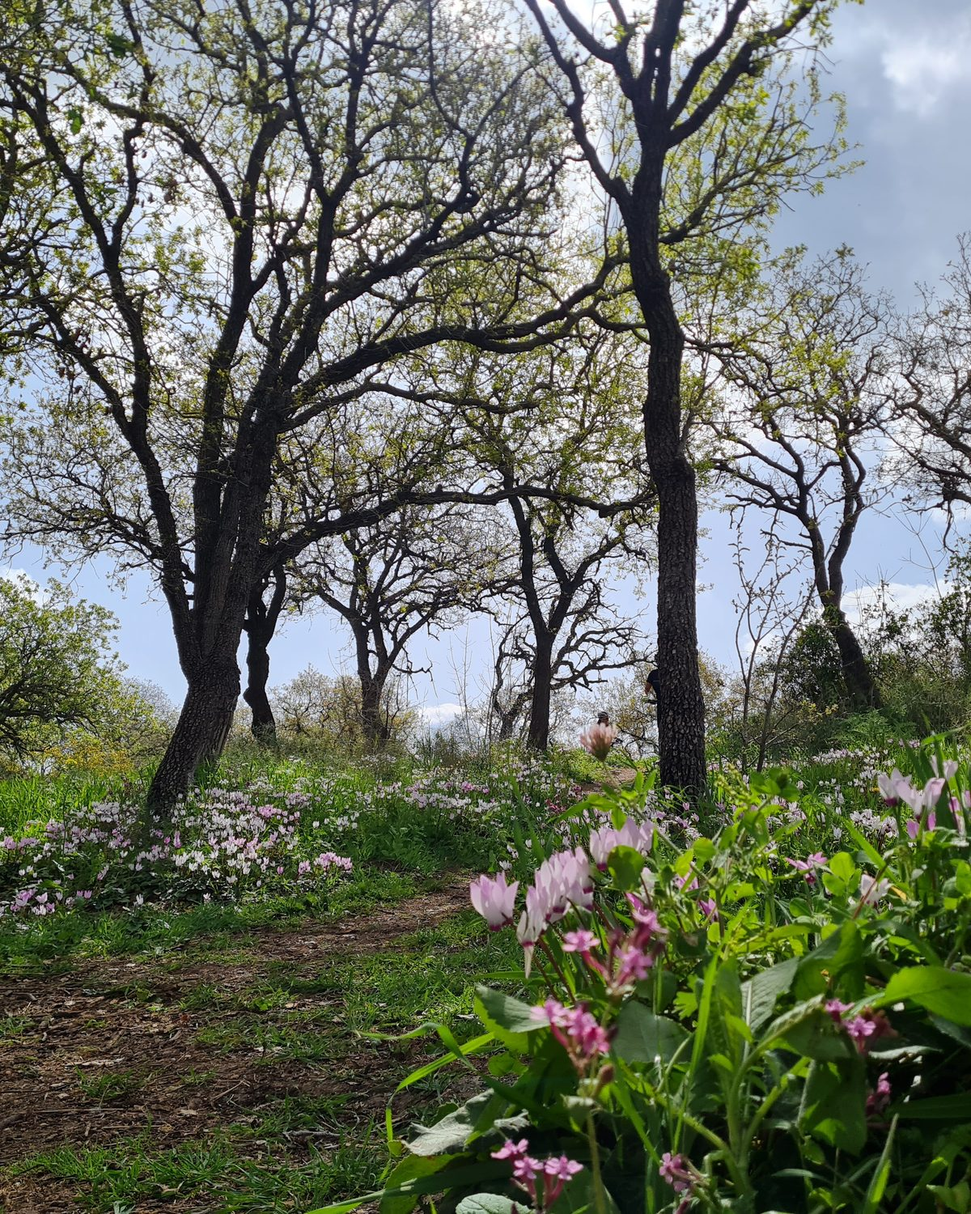
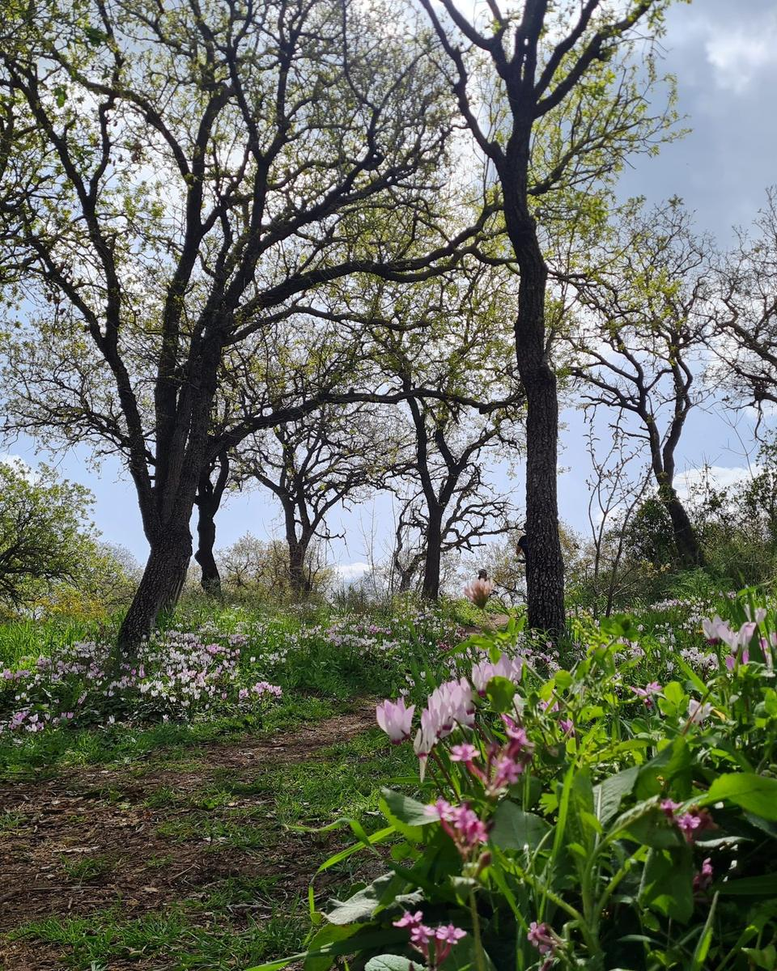
SEO improvements + Binyamina clinic (#1)
* SEO: canonical, structured data, titles, og:image:alt, lighter images

- Add canonical links to index, relocation and links pages
- Add JSON-LD (ProfessionalService, Person, WebSite; Service for relocation)
- Keyword-richer titles, og:image:alt
- Link to / instead of index.html to avoid duplicate URLs
- Compress hero (the-path.jpg) and LastBox.jpeg; fetchpriority on hero
- Update sitemap lastmod

Claude-Session: https://claude.ai/code/session_018zGTvMWcWPRyo6wD616F5h

* Mention in-person sessions at the Binyamina clinic

Claude-Session: https://claude.ai/code/session_018zGTvMWcWPRyo6wD616F5h

* Title: use 'אימון אישי (Coaching)' instead of transliteration

Claude-Session: https://claude.ai/code/session_018zGTvMWcWPRyo6wD616F5h

* Add 'קואצ'ינג' FAQ, meta description and knowsAbout

Claude-Session: https://claude.ai/code/session_018zGTvMWcWPRyo6wD616F5h

* Shorter homepage meta description (137 chars)

Claude-Session: https://claude.ai/code/session_018zGTvMWcWPRyo6wD616F5h

---------

diff --git a/index.html b/index.html
@@ -11,8 +11,9 @@
 </script>
 <meta charset="UTF-8">
 <meta name="viewport" content="width=device-width, initial-scale=1.0">
-<title>דריה אליאס | אימון אישי</title>
-<meta name="description" content="דריה אליאס – מאמנת אישית מוסמכת ILCC ומנהלת מוצר. אימון אישי בצמתי שינוי בקריירה ובחיים, לקבלת החלטות, גילוי כיוון וצעדים מעשיים קדימה. אונליין.">
+<title>דריה אליאס | אימון אישי (Coaching) בצמתי שינוי – אונליין ובבנימינה</title>
+<link rel="canonical" href="https://darya-elias.com/">
+<meta name="description" content="דריה אליאס, מאמנת אישית מוסמכת ILCC. אימון אישי (קואצ'ינג) כשמשהו בקריירה או בחיים מבקש שינוי. שיחת היכרות ללא עלות, אונליין או בבנימינה.">
 
 <!--
   ===== הערות לפני פרסום =====
@@ -31,7 +32,74 @@
 <meta property="og:image" content="https://darya-elias.com/og-home.jpg">
 <meta property="og:image:width" content="1200">
 <meta property="og:image:height" content="630">
+<meta property="og:image:alt" content="דריה אליאס – אימון אישי בצמתי שינוי">
 <meta name="twitter:card" content="summary_large_image">
+<script type="application/ld+json">
+{
+ "@context": "https://schema.org",
+ "@graph": [
+  {
+   "@type": "ProfessionalService",
+   "@id": "https://darya-elias.com/#business",
+   "name": "דריה אליאס - אימון אישי",
+   "url": "https://darya-elias.com/",
+   "image": "https://darya-elias.com/og-home.jpg",
+   "logo": "https://darya-elias.com/compass-mark.png",
+   "description": "אימון אישי (Coaching) בצמתי שינוי בקריירה ובחיים: קבלת החלטות, גילוי כיוון וצעדים מעשיים קדימה. אונליין או בקליניקה בבנימינה, עם שיחת היכרות ללא עלות.",
+   "telephone": "+972-54-280-1725",
+   "email": "darya@darya-elias.com",
+   "address": {
+    "@type": "PostalAddress",
+    "addressLocality": "בנימינה",
+    "addressCountry": "IL"
+   },
+   "areaServed": [
+    {
+     "@type": "Country",
+     "name": "ישראל"
+    },
+    {
+     "@type": "Place",
+     "name": "אונליין – כל העולם"
+    }
+   ],
+   "founder": {
+    "@id": "https://darya-elias.com/#darya"
+   },
+   "sameAs": [
+    "https://www.linkedin.com/in/daryaelias/",
+    "https://www.facebook.com/odarya",
+    "https://www.instagram.com/odarya/"
+   ]
+  },
+  {
+   "@type": "Person",
+   "@id": "https://darya-elias.com/#darya",
+   "name": "דריה אליאס",
+   "alternateName": "Darya Elias",
+   "jobTitle": "מאמנת אישית מוסמכת ILCC",
+   "knowsAbout": ["אימון אישי", "קואצ'ינג", "Coaching", "אימון בצמתי קריירה", "אימון לרילוקיישן"],
+   "url": "https://darya-elias.com/",
+   "image": "https://darya-elias.com/darya-profile.jpg",
+   "sameAs": [
+    "https://www.linkedin.com/in/daryaelias/",
+    "https://www.facebook.com/odarya",
+    "https://www.instagram.com/odarya/"
+   ]
+  },
+  {
+   "@type": "WebSite",
+   "@id": "https://darya-elias.com/#website",
+   "url": "https://darya-elias.com/",
+   "name": "דריה אליאס",
+   "inLanguage": "he-IL",
+   "publisher": {
+    "@id": "https://darya-elias.com/#business"
+   }
+  }
+ ]
+}
+</script>
 <link rel="icon" type="image/png" href="favicon.png">
 <link rel="apple-touch-icon" href="apple-touch-icon.png">
 <link rel="preconnect" href="https://fonts.googleapis.com">
@@ -344,7 +412,7 @@
         <p class="hero-note">שיחה קצרה בוואטסאפ או בזום, בלי עלות ובלי מחויבות.</p>
       </div>
       <div class="hero-media reveal">
-        <img src="the-path.jpg" alt="שביל בין עצי אלון ורקפות פורחות באביב">
+        <img src="the-path.jpg" alt="שביל בין עצי אלון ורקפות פורחות באביב" fetchpriority="high">
       </div>
     </div>
   </div>
@@ -456,6 +524,7 @@
     <div class="format-row reveal">
       <span class="tag">אחד על אחד</span>
       <span class="tag">אונליין, מכל מקום בעולם</span>
+      <span class="tag">או בקליניקה בבנימינה</span>
       <span class="tag">בעברית או באנגלית</span>
       <span class="tag">בקצב שלך</span>
     </div>
@@ -510,11 +579,15 @@
       </details>
       <details>
         <summary>איך נראות הפגישות?<span class="plus"></span></summary>
-        <p>פגישות אישיות אונליין, אחד על אחד, כך שאפשר להיפגש מכל מקום בעולם. את מבנה התהליך ואת התדירות נקבע יחד בשיחת ההיכרות.</p>
+        <p>פגישות אישיות אחד על אחד: אונליין, כך שאפשר להיפגש מכל מקום בעולם, או פנים אל פנים בקליניקה נעימה וקרובה לרכבת בבנימינה. את מבנה התהליך ואת התדירות נקבע יחד בשיחת ההיכרות.</p>
       </details>
       <details>
         <summary>למי הליווי מתאים?<span class="plus"></span></summary>
         <p>לנשים ולגברים כאחד, בכל שלב בקריירה ובחיים – בכל רגע שבו משהו מבקש שינוי.</p>
+      </details>
+      <details>
+        <summary>מה ההבדל בין אימון אישי לקואצ'ינג?<span class="plus"></span></summary>
+        <p>אין הבדל. "קואצ'ינג" הוא השם הלועזי ו"אימון אישי" הוא השם בעברית, לאותו תהליך: שיחות ממוקדות שעוזרות לכם להבין מה אתם רוצים ולהתקדם לשם. זה לא טיפול, וגם לא אימון כושר.</p>
       </details>
     </div>
   </div>
@@ -526,7 +599,7 @@
   <div class="container">
     <img src="compass-mark.png" alt="" width="40" height="40" style="margin:0 auto 10px; opacity:.85">
     <div class="footer-logo">דריה אליאס</div>
-    <p>אימון אישי · אונליין, מכל מקום בעולם</p>
+    <p>אימון אישי · אונליין, מכל מקום בעולם · קליניקה בבנימינה</p>
     <p><a href="relocation.html">מעבר – ליווי ייעודי לרילוקיישן</a></p>
     <p><a href="mailto:darya@darya-elias.com">darya@darya-elias.com</a></p>
     <p>© 2026 דריה אליאס. כל הזכויות שמורות.</p>

diff --git a/relocation.html b/relocation.html
@@ -11,7 +11,8 @@
 </script>
 <meta charset="UTF-8">
 <meta name="viewport" content="width=device-width, initial-scale=1.0">
-<title>מעבר | אימון אישי לנשים ברילוקיישן</title>
+<title>מעבר | אימון אישי לנשים ברילוקיישן – אונליין מכל העולם</title>
+<link rel="canonical" href="https://darya-elias.com/relocation.html">
 <meta name="description" content="ליווי ואימון אישי לנשים ברילוקיישן שרוצות לבנות מחדש זהות, קריירה ומשמעות - בלי לוותר על עצמן.">
 
 <!--
@@ -35,7 +36,29 @@
 <meta property="og:image" content="https://darya-elias.com/og-relo.jpg">
 <meta property="og:image:width" content="1200">
 <meta property="og:image:height" content="630">
+<meta property="og:image:alt" content="מעבר – אימון אישי לנשים ברילוקיישן">
 <meta name="twitter:card" content="summary_large_image">
+<script type="application/ld+json">
+{
+ "@context": "https://schema.org",
+ "@type": "Service",
+ "name": "מעבר – אימון אישי לנשים ברילוקיישן",
+ "url": "https://darya-elias.com/relocation.html",
+ "serviceType": "אימון אישי לרילוקיישן",
+ "description": "ליווי ואימון אישי לנשים ברילוקיישן, לפני מעבר או אחרי חזרה לארץ: זהות, קריירה ומשמעות. אונליין, מכל מקום בעולם.",
+ "provider": {
+  "@type": "ProfessionalService",
+  "@id": "https://darya-elias.com/#business",
+  "name": "דריה אליאס - אימון אישי",
+  "url": "https://darya-elias.com/"
+ },
+ "areaServed": {
+  "@type": "Place",
+  "name": "אונליין – כל העולם"
+ },
+ "inLanguage": "he-IL"
+}
+</script>
 <link rel="icon" type="image/png" href="favicon.png">
 <link rel="apple-touch-icon" href="apple-touch-icon.png">
 <link rel="preconnect" href="https://fonts.googleapis.com">
@@ -668,7 +691,7 @@
   <div class="nav-row">
     <a href="#" class="logo">מעבר<span>אימון אישי לנשים ברילוקיישן</span></a>
 <div class="nav-actions">
-      <a href="index.html" class="home-link"><img src="compass-mark.png" alt="" width="28" height="28"><span>דריה אליאס · אימון אישי</span></a>
+      <a href="/" class="home-link"><img src="compass-mark.png" alt="" width="28" height="28"><span>דריה אליאס · אימון אישי</span></a>
       <a href="https://wa.me/972542801725?text=%D7%94%D7%99%D7%99%20%D7%93%D7%A8%D7%99%D7%94%2C%20%D7%94%D7%92%D7%A2%D7%AA%D7%99%20%D7%9E%D7%94%D7%90%D7%AA%D7%A8%20%D7%A9%D7%9C%20%D7%9E%D7%A2%D7%91%D7%A8%20%D7%95%D7%90%D7%A9%D7%9E%D7%97%20%D7%9C%D7%A7%D7%91%D7%95%D7%A2%20%D7%A9%D7%99%D7%97%D7%AA%20%D7%94%D7%99%D7%9B%D7%A8%D7%95%D7%AA" target="_blank" rel="noopener" class="btn btn-primary btn-sm">לשיחת היכרות</a>
     </div>
   </div>
@@ -892,7 +915,7 @@
       <div class="avatar">
         <img src="darya-profile.jpg" alt="דריה אליאס, מאמנת, מייסדת מעבר" style="object-position:center 22%">
       </div>
-      <p class="avatar-cap"><a href="index.html" style="color:var(--ocean-deep);font-weight:600">דריה אליאס</a></p>
+      <p class="avatar-cap"><a href="/" style="color:var(--ocean-deep);font-weight:600">דריה אליאס</a></p>
     </div>
     <div class="founder-text reveal">
       <div class="eyebrow">נעים להכיר</div>
@@ -994,7 +1017,7 @@
   <div class="container">
     <div class="footer-logo">מעבר</div>
     <p>אימון אישי לנשים ברילוקיישן · נבנה בכוונה ובאהבה.</p>
-    <p>מבית <a href="index.html">דריה אליאס · אימון אישי</a></p>
+    <p>מבית <a href="/">דריה אליאס · אימון אישי</a></p>
     <p><a href="mailto:darya@darya-elias.com">darya@darya-elias.com</a></p>
     <p>© 2026 מעבר. כל הזכויות שמורות.</p>
   </div>

diff --git a/links.html b/links.html
@@ -12,6 +12,7 @@
 <meta charset="UTF-8">
 <meta name="viewport" content="width=device-width, initial-scale=1.0">
 <title>דריה אליאס | קישורים</title>
+<link rel="canonical" href="https://darya-elias.com/links.html">
 <meta name="description" content="דריה אליאס – אימון אישי, מעבר (אימון לנשים ברילוקיישן) והרצאות. כל הקישורים במקום אחד.">
 <meta property="og:type" content="website">
 <meta property="og:locale" content="he_IL">
@@ -65,7 +66,7 @@
     <span class="i"><svg viewBox="0 0 24 24" aria-hidden="true"><path fill="currentColor" d="M17.472 14.382c-.297-.149-1.758-.867-2.03-.967-.273-.099-.471-.148-.67.15-.197.297-.767.966-.94 1.164-.173.199-.347.223-.644.075-.297-.15-1.255-.463-2.39-1.475-.883-.788-1.48-1.761-1.653-2.059-.173-.297-.018-.458.13-.606.134-.133.298-.347.446-.52.149-.174.198-.298.298-.497.099-.198.05-.371-.025-.52-.075-.149-.669-1.612-.916-2.207-.242-.579-.487-.5-.669-.51-.173-.008-.371-.01-.57-.01-.198 0-.52.074-.792.372-.272.297-1.04 1.016-1.04 2.479 0 1.462 1.065 2.875 1.213 3.074.149.198 2.096 3.2 5.077 4.487.709.306 1.262.489 1.694.625.712.227 1.36.195 1.871.118.571-.085 1.758-.719 2.006-1.413.248-.694.248-1.289.173-1.413-.074-.124-.272-.198-.57-.347z"/><path fill="currentColor" d="M12 0C5.373 0 0 5.373 0 12c0 2.127.558 4.126 1.532 5.862L.057 23.428a.75.75 0 0 0 .915.915l5.565-1.474A11.951 11.951 0 0 0 12 24c6.627 0 12-5.373 12-12S18.627 0 12 0zm0 22c-1.907 0-3.693-.523-5.222-1.432l-.374-.222-3.873 1.026 1.026-3.874-.221-.373A9.955 9.955 0 0 1 2 12C2 6.477 6.477 2 12 2s10 4.477 10 10-4.477 10-10 10z"/></svg></span>
     <span class="t">לשיחת היכרות בוואטסאפ<small>שיחה קצרה, בלי עלות ובלי מחויבות</small></span>
   </a>
-  <a class="card" href="index.html">
+  <a class="card" href="/">
     <span class="i">🧭</span>
     <span class="t">אימון אישי<small>לעצור. לדייק. ולנוע מתוך בחירה.</small></span>
   </a>
@@ -73,7 +74,7 @@
     <span class="i">📦</span>
     <span class="t">מעבר – אימון לנשים ברילוקיישן<small>ליווי ייעודי לפני, בזמן ואחרי</small></span>
   </a>
-  <a class="card" href="index.html#lectures">
+  <a class="card" href="/#lectures">
     <span class="i">🎤</span>
     <span class="t">הרצאות לארגונים וקהילות<small>שלוש הרצאות מזוויות שונות</small></span>
   </a>
@@ -89,7 +90,7 @@
     <a href="mailto:darya@darya-elias.com" aria-label="מייל"><svg viewBox="0 0 24 24" fill="none" stroke="currentColor" stroke-width="2" stroke-linecap="round" stroke-linejoin="round" aria-hidden="true"><rect x="3" y="5" width="18" height="14" rx="2"/><path d="m3 7 9 6 9-6"/></svg></a>
   </nav>
 
-  <p class="foot"><a href="index.html">darya-elias.com</a></p>
+  <p class="foot"><a href="/">darya-elias.com</a></p>
 </main>
 </body>
 </html>
